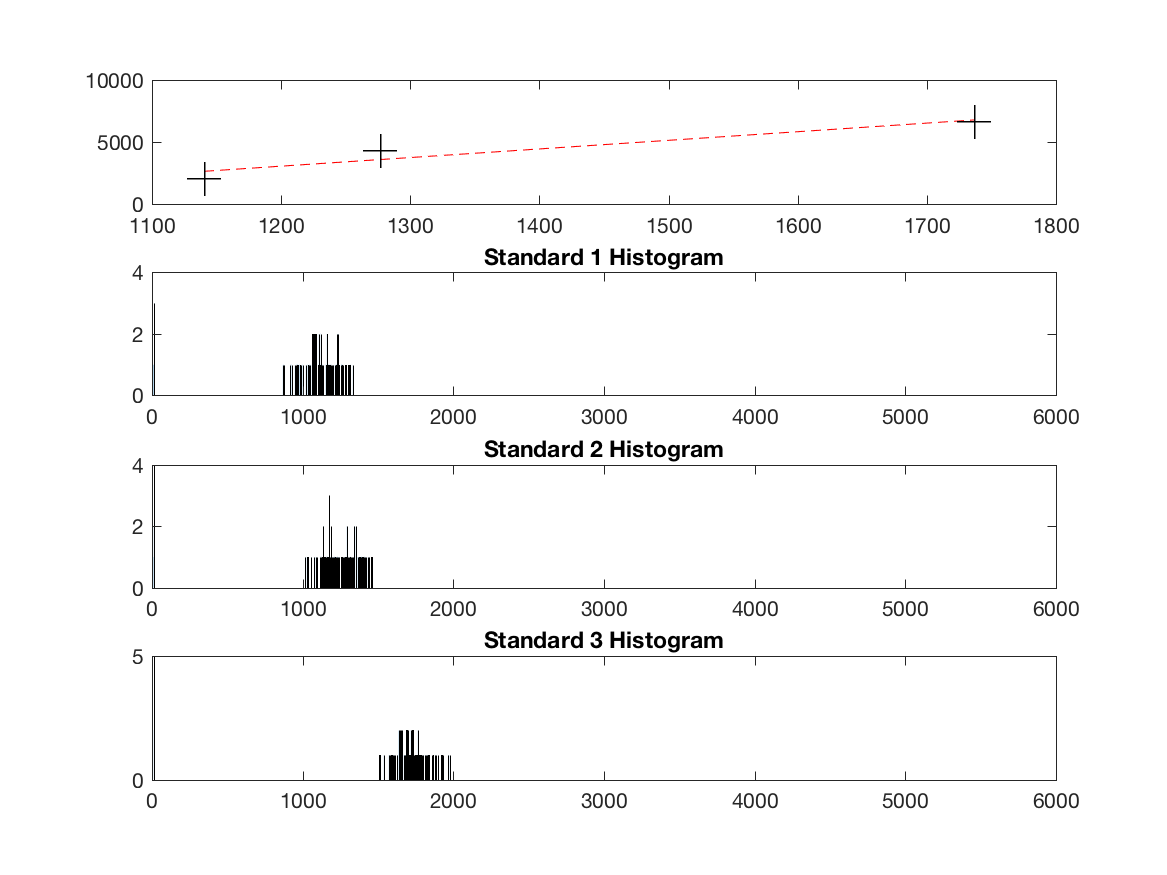
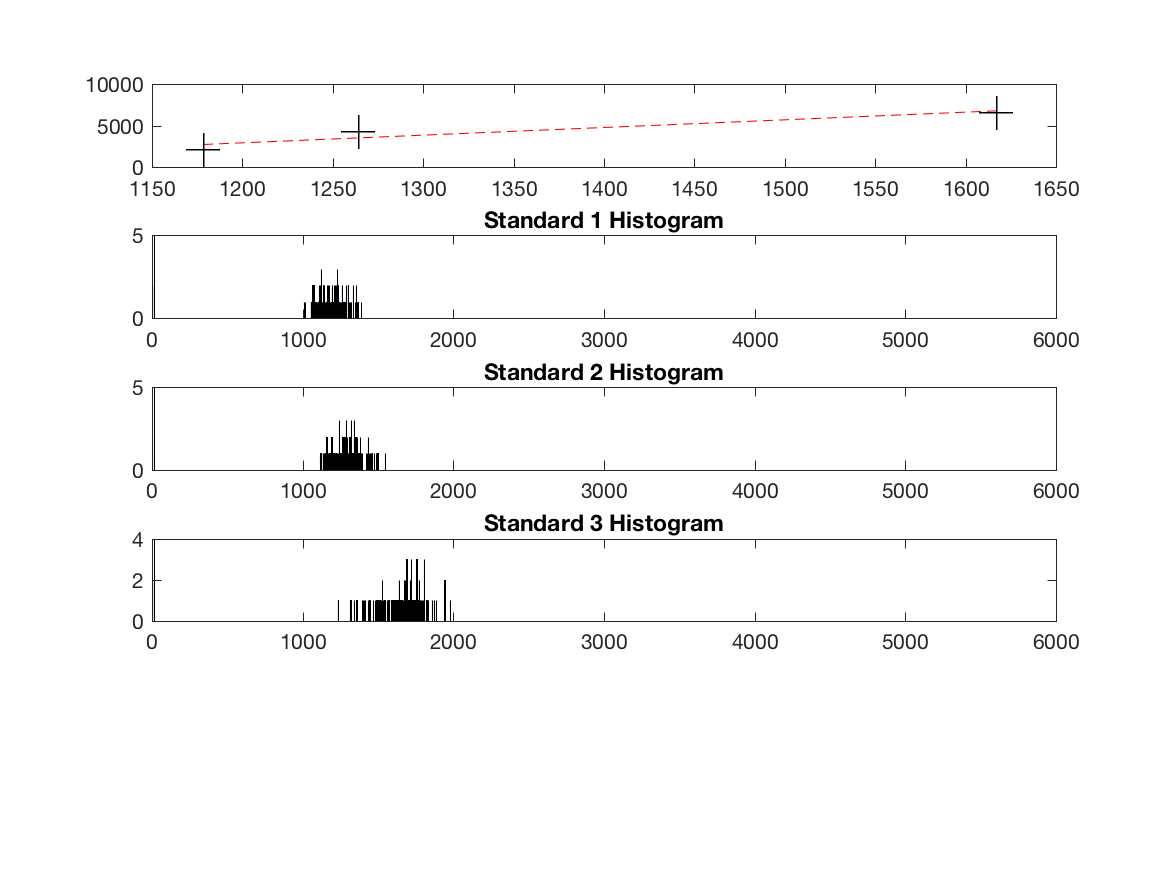
3/4 Standard Switch
Added ability to easily switch between 3 and 4 standard calibraiton.

diff --git a/standardCalc.m b/standardCalc.m
@@ -313,8 +313,8 @@ matrix = Generate3dMatrixCBCT(dirname);
             HU1 = 2112;
             HU2 = 4301.6;
             HU3 = 6628.6;
-            %HU4 = 12012;
-
+            HU4 = 12012;
+            HU4 = nan;
             %%%%%%%%%%%%%%%%%%%%%%%%%%%%%%%%%%%%%%%%%%%%%%%%%%%%%%%%%%%%%%%%%%%%%%%%%%%%%%%%%%%%%%%
             %ensures mark1 is less than mark2
             choice = questdlg('Verify you have selected first and last slice.',' ', 'OK','Cancel');
@@ -357,7 +357,15 @@ matrix = Generate3dMatrixCBCT(dirname);
             
             %Iterates through each of the four standards, allowing the user
             %to select which standard they are calibrating.
-            for calib = [1:3]
+            
+            if ~isnan(HU4)
+                numCalib = 4;
+            else 
+                numCalib = 3;
+            end
+            
+            
+            for calib = [1:numCalib]
                 if calib > 1
                      
                     %msgbox(sprintf('Please indicate center of standard #%d',calib))
@@ -394,7 +402,7 @@ matrix = Generate3dMatrixCBCT(dirname);
                 end
                 
                 %Stores EVERY value calculated from standard.
-                avgStruct = []
+                avgStruct = [];
                 
                 %Iterates through each and calcuates the average GS values
                 %over area of interest
@@ -452,9 +460,17 @@ matrix = Generate3dMatrixCBCT(dirname);
                     PV4std = STD(1);
                 end
             end
+    
+            if ~isnan(HU4)
+                            
+                HounsfieldUnitmat = [HU1;HU2;HU3;HU4;];
+                Dmat = [PV1; PV2; PV3; PV4;];
+            else
+                HounsfieldUnitmat = [HU1;HU2;HU3;];
+                Dmat = [PV1; PV2; PV3;];
 
-            HounsfieldUnitmat = [HU1;HU2;HU3;];
-            Dmat = [PV1; PV2; PV3; ];
+            end
+
             
             plotfig = figure(3);
             
@@ -468,14 +484,14 @@ matrix = Generate3dMatrixCBCT(dirname);
             fixHU_lin = (Dmat*RS_lin) +RI_lin;
 
             figure(plotfig)
-            subplot(4,1,1)
+            subplot(5,1,1)
             plot(Dmat, fixHU_lin, 'r--')
             hold on
             plot(Dmat, HounsfieldUnitmat, 'k+', 'MarkerSize', 15)
             hold off
             
             %Histogram Visualization for each standard
-            subplot(4,1,2)
+            subplot(5,1,2)
             s1Hist = histogram(TV1)
             s1Hist.BinEdges = [0:5500];
             
@@ -484,20 +500,28 @@ matrix = Generate3dMatrixCBCT(dirname);
             S1Data = [[PV1,PV1std],TV1];
             S1Data = S1Data.';
             
-            subplot(4,1,3)
+            subplot(5,1,3)
             s2Hist = histogram(TV2)
             s2Hist.BinEdges = [0:5500];
             title('Standard 2 Histogram')
             S2Data = [[PV2,PV2std],TV2];
             S2Data = S2Data.';
             
-            subplot(4,1,4)
+            subplot(5,1,4)
             s3Hist = histogram(TV3)
             s3Hist.BinEdges = [0:5500];
             title('Standard 3 Histogram')
             S3Data = [[PV3,PV3std],TV3];
             S3Data = S3Data.';
             
+            if ~isnan(HU4)
+                subplot(5,1,5)
+                s3Hist = histogram(TV4)
+                s3Hist.BinEdges = [0:5500];
+                title('Standard 4 Histogram')
+                S4Data = [[PV4,PV4std],TV4];
+                S4Data = S4Data.';
+            end
             
             choice = questdlg('Use the linear or exponential fit for calibration?',' ', 'Linear','Cancel','Cancel');
             
@@ -509,16 +533,19 @@ matrix = Generate3dMatrixCBCT(dirname);
                 %calibratedDir = GenerateCalibratedDicoms(dirname,vol,"standard",RS_lin,RI_lin)
                 saveas(gcf,'CalibrationData.png')
                 
+                
                 %Remove data that is greater than 2-3 STD from the mean
+                threshVal = 1.5;
                 mean = mean2(S1Data);
                 stddev = std(S1Data);
                 rmArray = [];
+                
                 for i = 1:length(S1Data)
                     
-                    if S1Data(i) < mean - (2 * stddev)
+                    if S1Data(i) < mean - (threshVal * stddev)
                         rmArray=[rmArray,i];
 
-                    elseif S1Data(i) > mean + (2 * stddev)
+                    elseif S1Data(i) > mean + (threshVal * stddev)
                         rmArray=[rmArray,i];
                     else
                         
@@ -537,9 +564,9 @@ matrix = Generate3dMatrixCBCT(dirname);
                 rmArray = [];
                 for i = 1:length(S2Data)
                     
-                    if S2Data(i) < mean - (2 * stddev)
+                    if S2Data(i) < mean - (threshVal * stddev)
                         rmArray=[rmArray,i];
-                    elseif S2Data(i) > mean + (2 * stddev)
+                    elseif S2Data(i) > mean + (threshVal * stddev)
                         rmArray=[rmArray,i];
                     else
                         
@@ -556,9 +583,9 @@ matrix = Generate3dMatrixCBCT(dirname);
                 rmArray = [];
                 for i = 1:length(S3Data)
                     
-                    if S3Data(i) < mean - (2 * stddev)
+                    if S3Data(i) < mean - (threshVal * stddev)
                         rmArray=[rmArray,i];
-                    elseif S3Data(i) > mean + (2 * stddev)
+                    elseif S3Data(i) > mean + (threshVal * stddev)
                         rmArray=[rmArray,i];
                     else
                         
@@ -568,7 +595,29 @@ matrix = Generate3dMatrixCBCT(dirname);
                     rmVal = rmArray(i);
                     rmVal = rmVal - i + 1;
                     S3Data(rmVal) = [];
-                end    
+                end
+                
+                if ~isnan(HU4)
+                    %Remove data that is greater than 2-3 STD from the mean
+                    mean = mean2(S4Data);
+                    stddev = std(S4Data);
+                    rmArray = [];
+                    for i = 1:length(S4Data)
+
+                        if S4Data(i) < mean - (threshVal * stddev)
+                            rmArray=[rmArray,i];
+                        elseif S4Data(i) > mean + (threshVal * stddev)
+                            rmArray=[rmArray,i];
+                        else
+
+                        end
+                    end
+                    for i = 1:length(rmArray)
+                        rmVal = rmArray(i);
+                        rmVal = rmVal - i + 1;
+                        S4Data(rmVal) = [];
+                    end 
+                end
                 %Ensures that each array has the same number of elements,
                 %length is choosen as smallest length of th setl
                 if length(S1Data) < length(S2Data)
@@ -580,10 +629,18 @@ matrix = Generate3dMatrixCBCT(dirname);
                 if length(S3Data) < dataCatIndex
                     dataCatIndex = length(S3Data);
                 end
-                
+                if ~isnan(HU4)
+                    if length(S4Data) < dataCatIndex
+                        dataCatIndex = length(S4Data);
+                    end
+                end
                 %Array containing values for each standard in a different
                 %column. 
-                SData = [S1Data(1:dataCatIndex), S2Data(1:dataCatIndex), S3Data(1:dataCatIndex)];
+                if ~isnan(HU4)
+                    SData = [S1Data(1:dataCatIndex), S2Data(1:dataCatIndex), S3Data(1:dataCatIndex), S4Data(1:dataCatIndex)];
+                else
+                    SData = [S1Data(1:dataCatIndex), S2Data(1:dataCatIndex), S3Data(1:dataCatIndex)];
+                end
                 
                 cd(dirname)
                 %Writes raw standard data as .csv file
@@ -591,7 +648,7 @@ matrix = Generate3dMatrixCBCT(dirname);
                 cd(firstDir)
                 %Generates distribution of RS and RI values based on raw
                 %standard data. 
-                GenerateRescaleDist(SData,HU1,HU2,HU3,dirname)
+                GenerateRescaleDist(SData,HU1,HU2,HU3,HU4,dirname)
               
             %Does nothing if calibration data is not sufficient.     
             case 'Cancel'

diff --git a/GenerateRescaleDist.m b/GenerateRescaleDist.m
@@ -1,43 +1,75 @@
-function GenerateRescaleDist(vol,HU1,HU2,HU3,dirname)
+function GenerateRescaleDist(vol,HU1,HU2,HU3,HU4,dirname)
 
-   
+
     S1 = vol(3:end,1);
     S2 = vol(3:end,2);
     S3 = vol(3:end,3);
+    
+    if ~isnan(HU4)
+        S4 = vol(3:end,3);
+    end
+   
 
     S1Dist = fitdist(S1, 'Normal');
     S2Dist = fitdist(S2, 'Normal');
     S3Dist = fitdist(S3, 'Normal');
-
-    count = 100000;
-    rescaleSlopeValues = [count];
-    rescaleInterceptValues = [count];
-    dmatValues = zeros(count,3);
-    f = figure(4);
-
-    loadingbar = waitbar(0,'Running Sim...');
-    parfor i = [1:count]
-
-        waitbar(i / count)
-        S1Rand = random(S1Dist);
-        S2Rand = random(S2Dist);
-        S3Rand = random(S3Dist);
-
-        HounsfieldUnitmat = [HU1;HU2;HU3;];
-        Dmat = [S1Rand; S2Rand; S3Rand;];
-
-        rescale = polyfit(Dmat, HounsfieldUnitmat, 1);
-        RS_lin = rescale(1);
-        RI_lin = rescale(2);
-
-        rescaleSlopeValues(i) = RS_lin;
-        rescaleInterceptValues(i) = RI_lin;
-        dmatValues(i,:) = Dmat;
-
-
-
+    
+    if ~isnan(HU4)
+        S4Dist = fitdist(S4, 'Normal');
     end
 
+    count = 500000;
+    rescaleSlopeValues = [count];
+    rescaleInterceptValues = [count];
+    
+    if ~isnan(HU4)
+        dmatValues = zeros(count,4);
+    else
+        dmatValues = zeros(count,3);
+    end
+    
+    
+    f = figure(4);
+    loadingbar = waitbar(0,'Running Sim...');
+    
+    if ~isnan(HU4)
+        parfor i = [1:count]
+            waitbar(i / count)
+            S1Rand = random(S1Dist);
+            S2Rand = random(S2Dist);
+            S3Rand = random(S3Dist);
+            S4Rand = random(S4Dist);
+
+            HounsfieldUnitmat = [HU1;HU2;HU3;HU4;];
+            Dmat = [S1Rand; S2Rand; S3Rand; S4Rand;];
+
+            rescale = polyfit(Dmat, HounsfieldUnitmat, 1);
+            RS_lin = rescale(1);
+            RI_lin = rescale(2);
+
+            rescaleSlopeValues(i) = RS_lin;
+            rescaleInterceptValues(i) = RI_lin;
+            dmatValues(i,:) = Dmat;
+        end
+    else
+        parfor i = [1:count]
+            waitbar(i / count)
+            S1Rand = random(S1Dist);
+            S2Rand = random(S2Dist);
+            S3Rand = random(S3Dist);
+
+            HounsfieldUnitmat = [HU1;HU2;HU3;];
+            Dmat = [S1Rand; S2Rand; S3Rand;];
+
+            rescale = polyfit(Dmat, HounsfieldUnitmat, 1);
+            RS_lin = rescale(1);
+            RI_lin = rescale(2);
+
+            rescaleSlopeValues(i) = RS_lin;
+            rescaleInterceptValues(i) = RI_lin;
+            dmatValues(i,:) = Dmat;
+        end
+    end
     "RS mean"
     mean(rescaleSlopeValues)
     "RS std"
